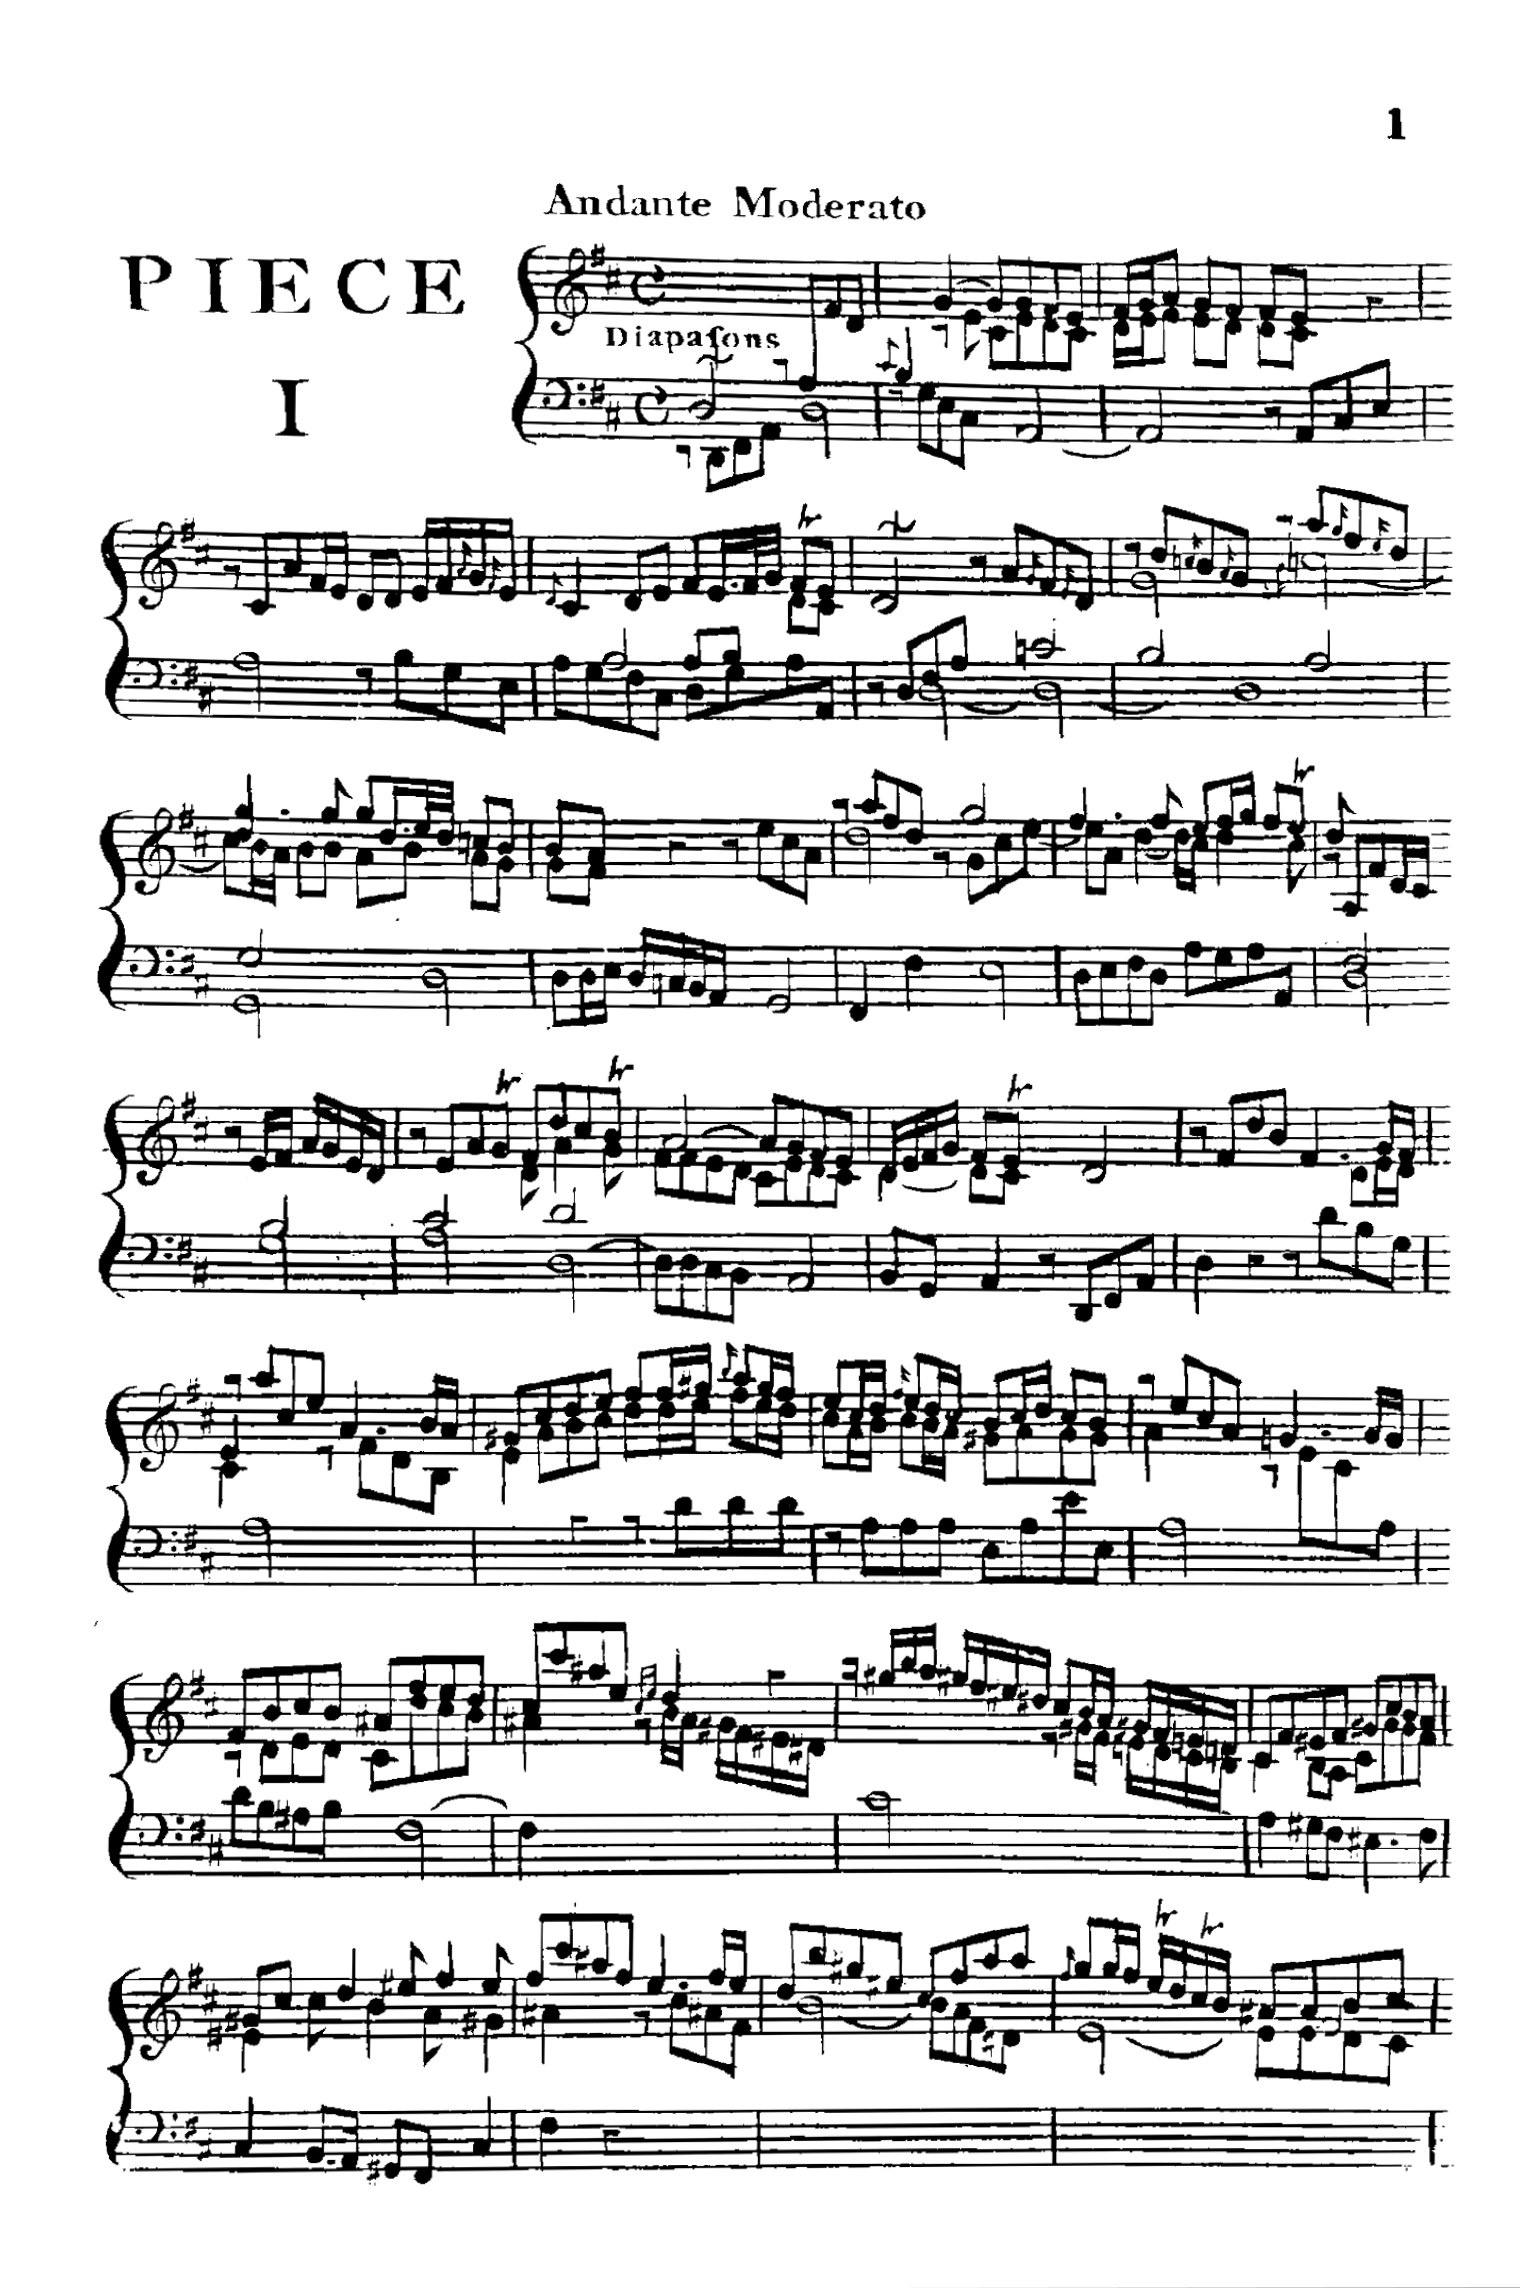
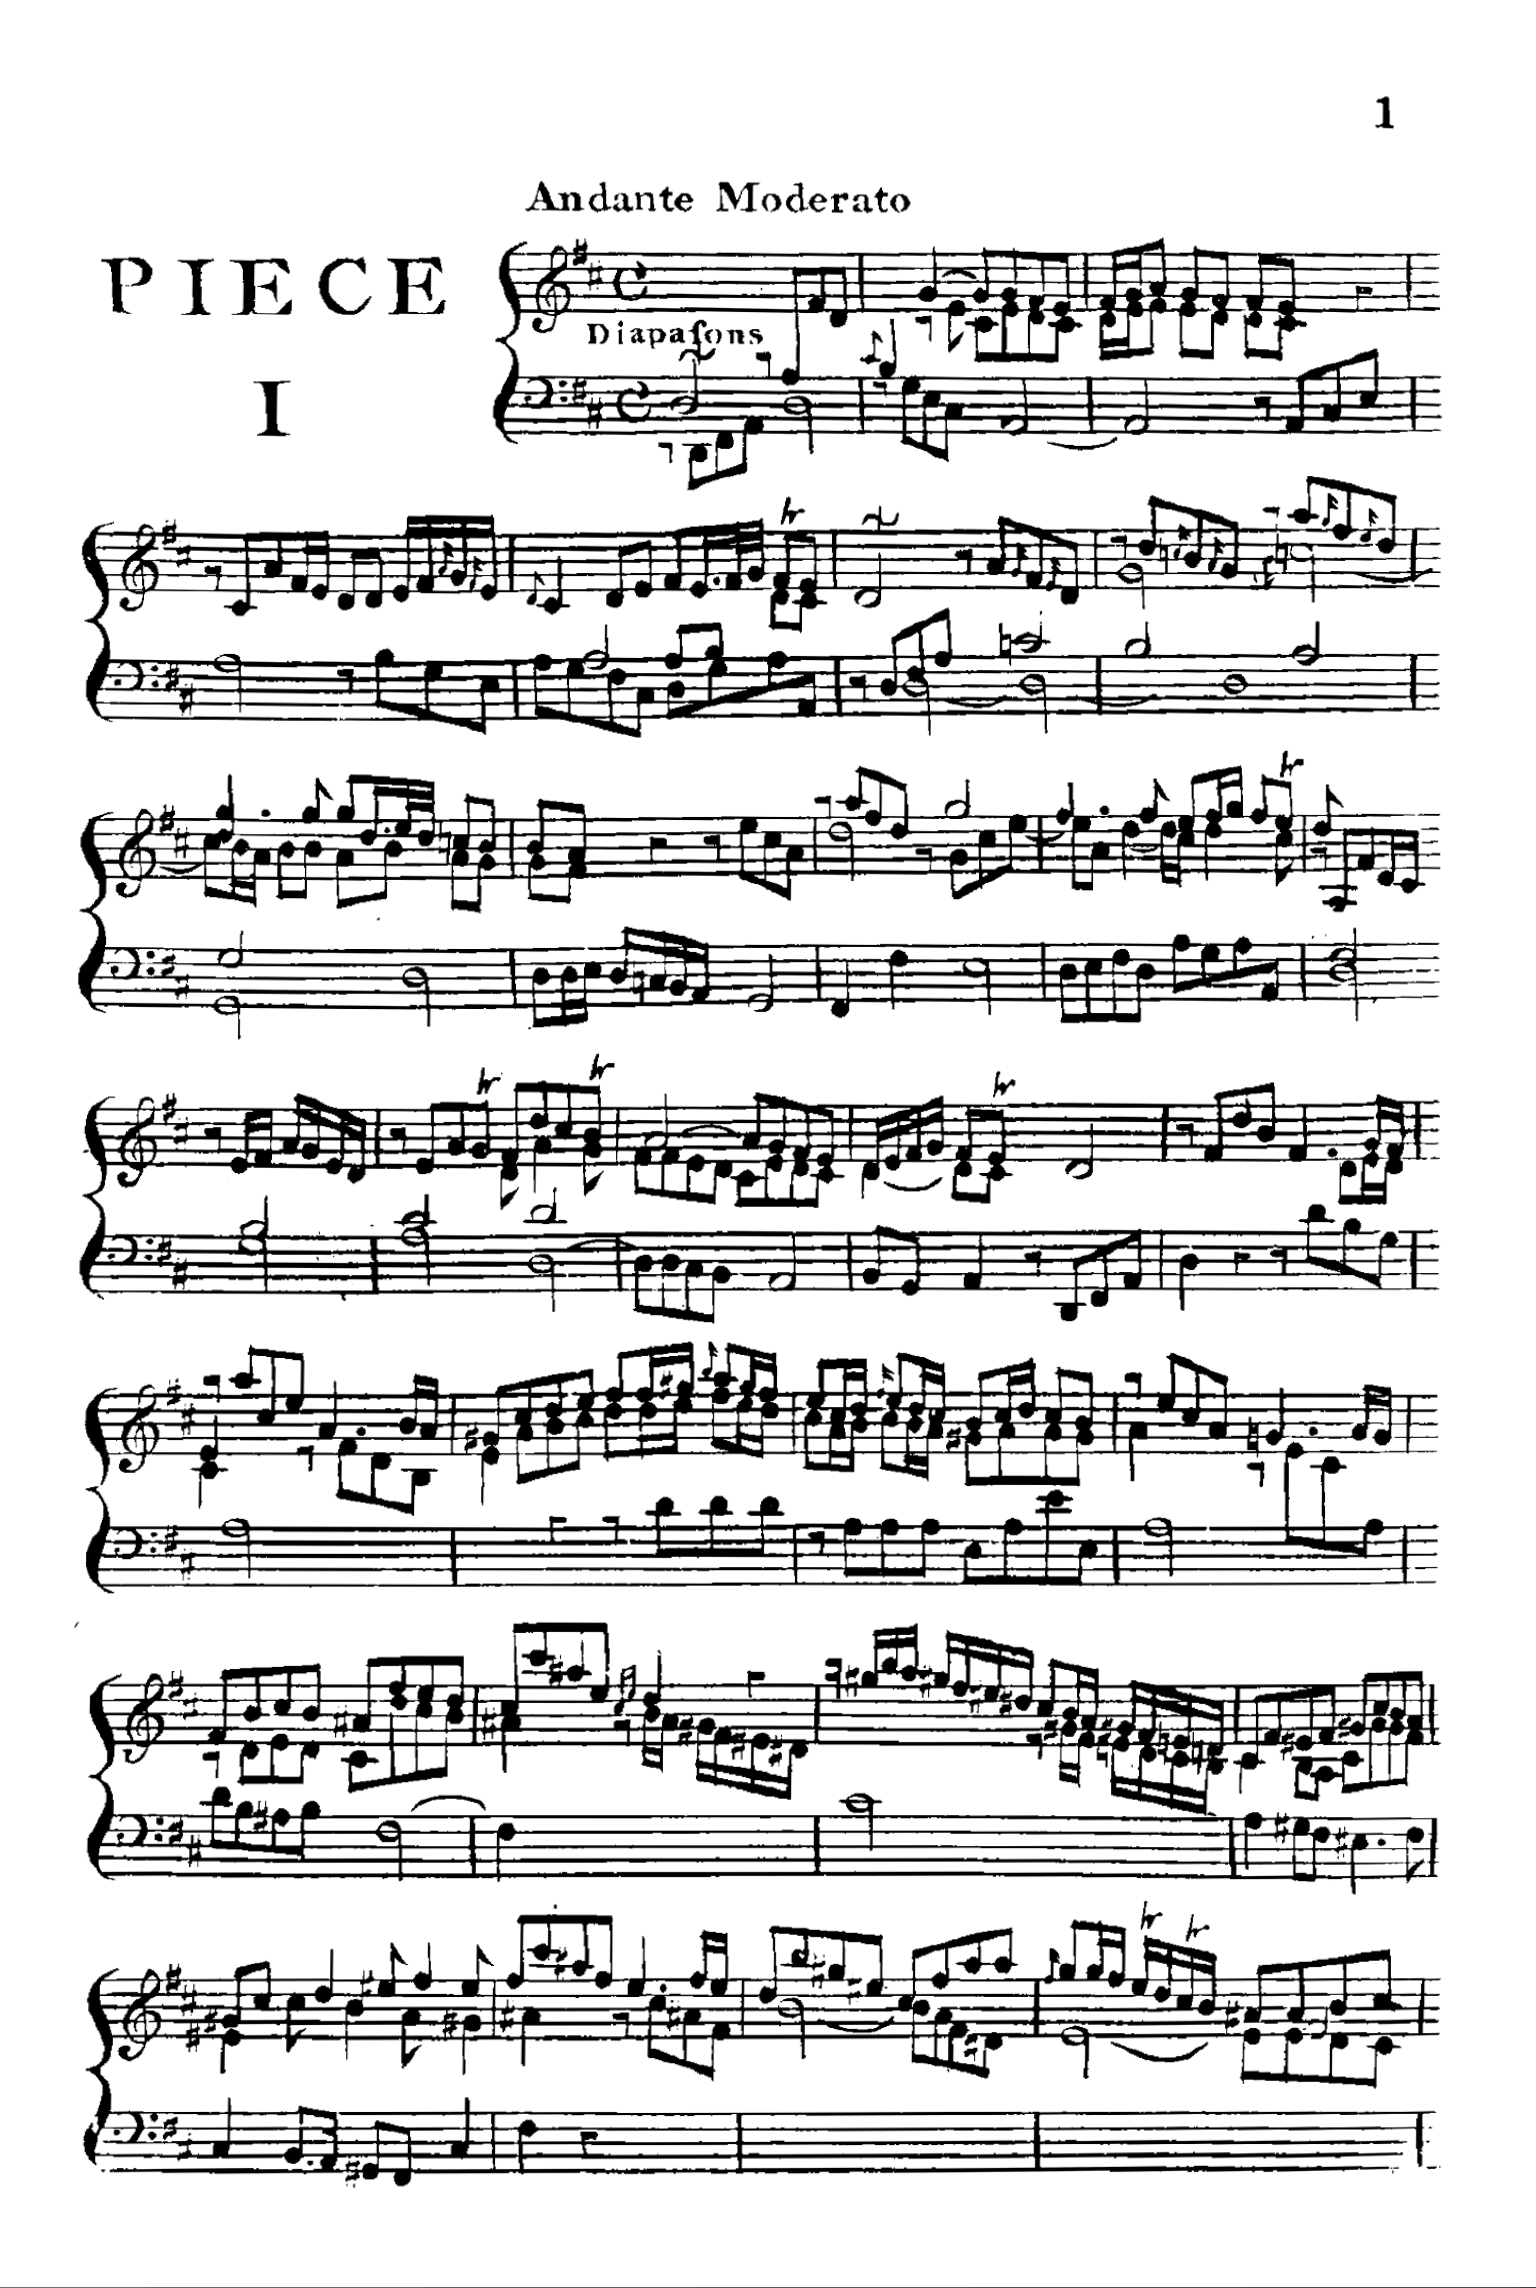
Fix horizontal dewarp, erode more until enough staff lines found

Changed region(s): [[0.0309, 0.0621, 0.9586, 0.962], [0.8967, 0.031, 0.9276, 0.0621]]

diff --git a/dewarp/horizontal_dewarp.py b/dewarp/horizontal_dewarp.py
@@ -902,7 +902,7 @@ def dewarp_horizontal(img, extra_margins=False):
 
     nspans = -1
     erode_iterations = 3
-    while nspans < 1 and erode_iterations < 8:
+    while nspans < 10 and erode_iterations < 8:
         pagemask, page_outline = get_page_extents(small, margins)
 
         cinfo_list = get_contours(name, small, pagemask, 'line', erode_iterations)

diff --git a/main.py b/main.py
@@ -23,7 +23,7 @@ from helpers.staff_fixers import fix_staff_relations
 
 
 def main():
-    INPUT_DIR = 'images/sheets/albumblatt violin/'
+    INPUT_DIR = 'images/sheets/10church/'
     INPUT_PATH = INPUT_DIR + 'input.png'
     DEWARPED_FILE = 'dewarped.png'
     DEWARPED_PATH = INPUT_DIR + DEWARPED_FILE
